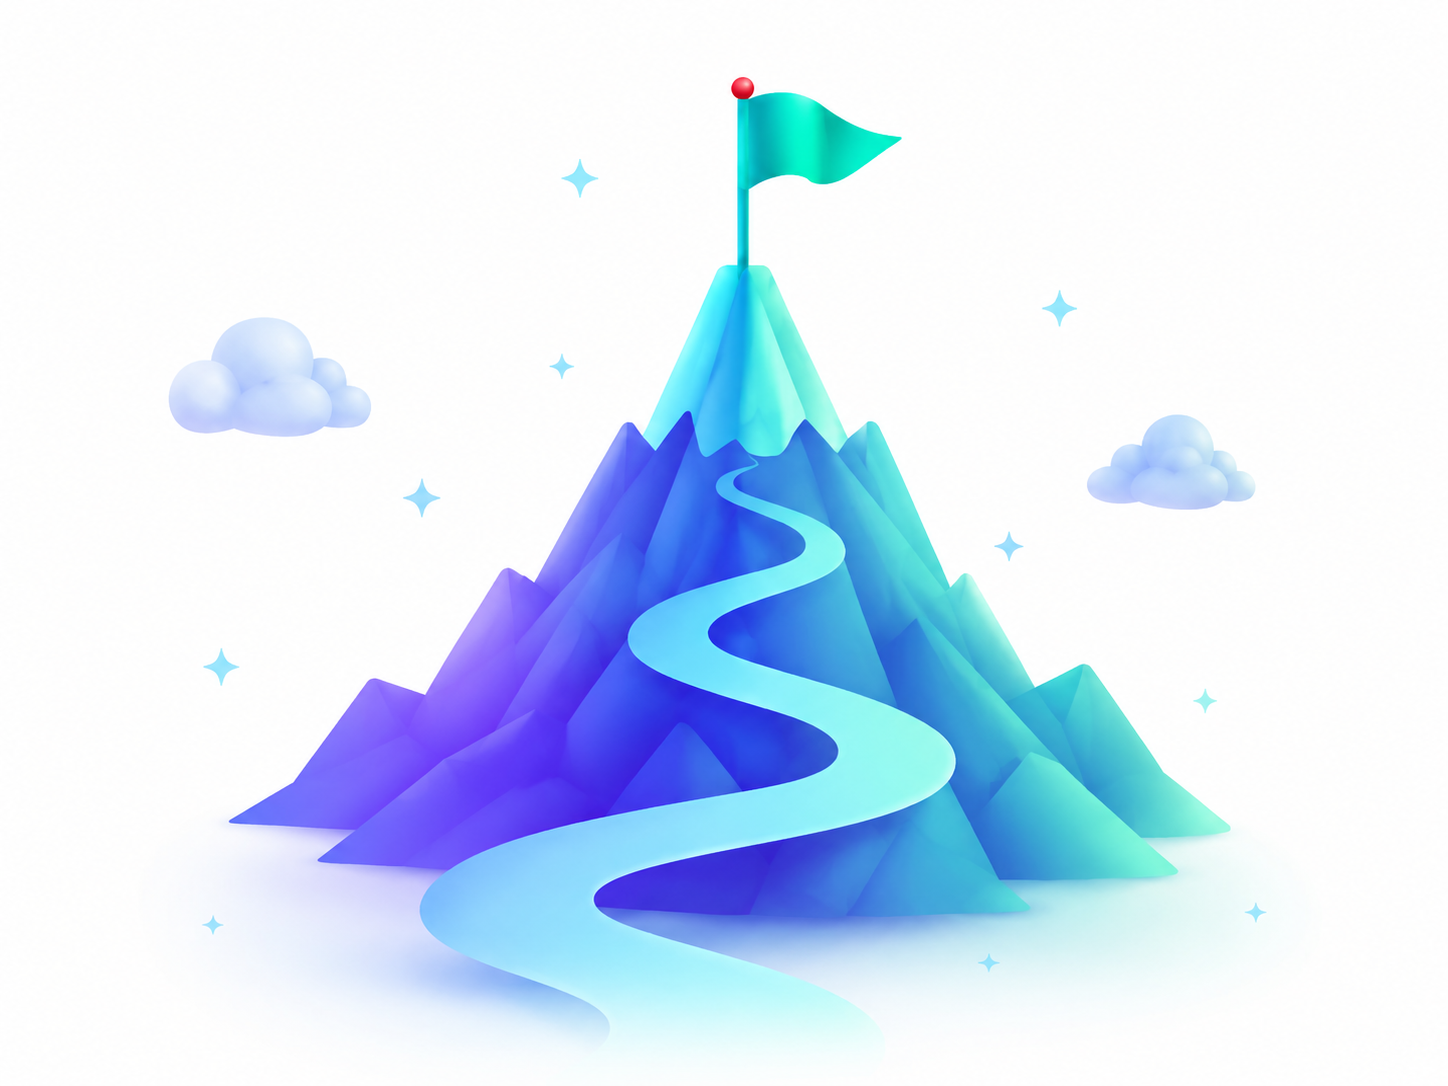
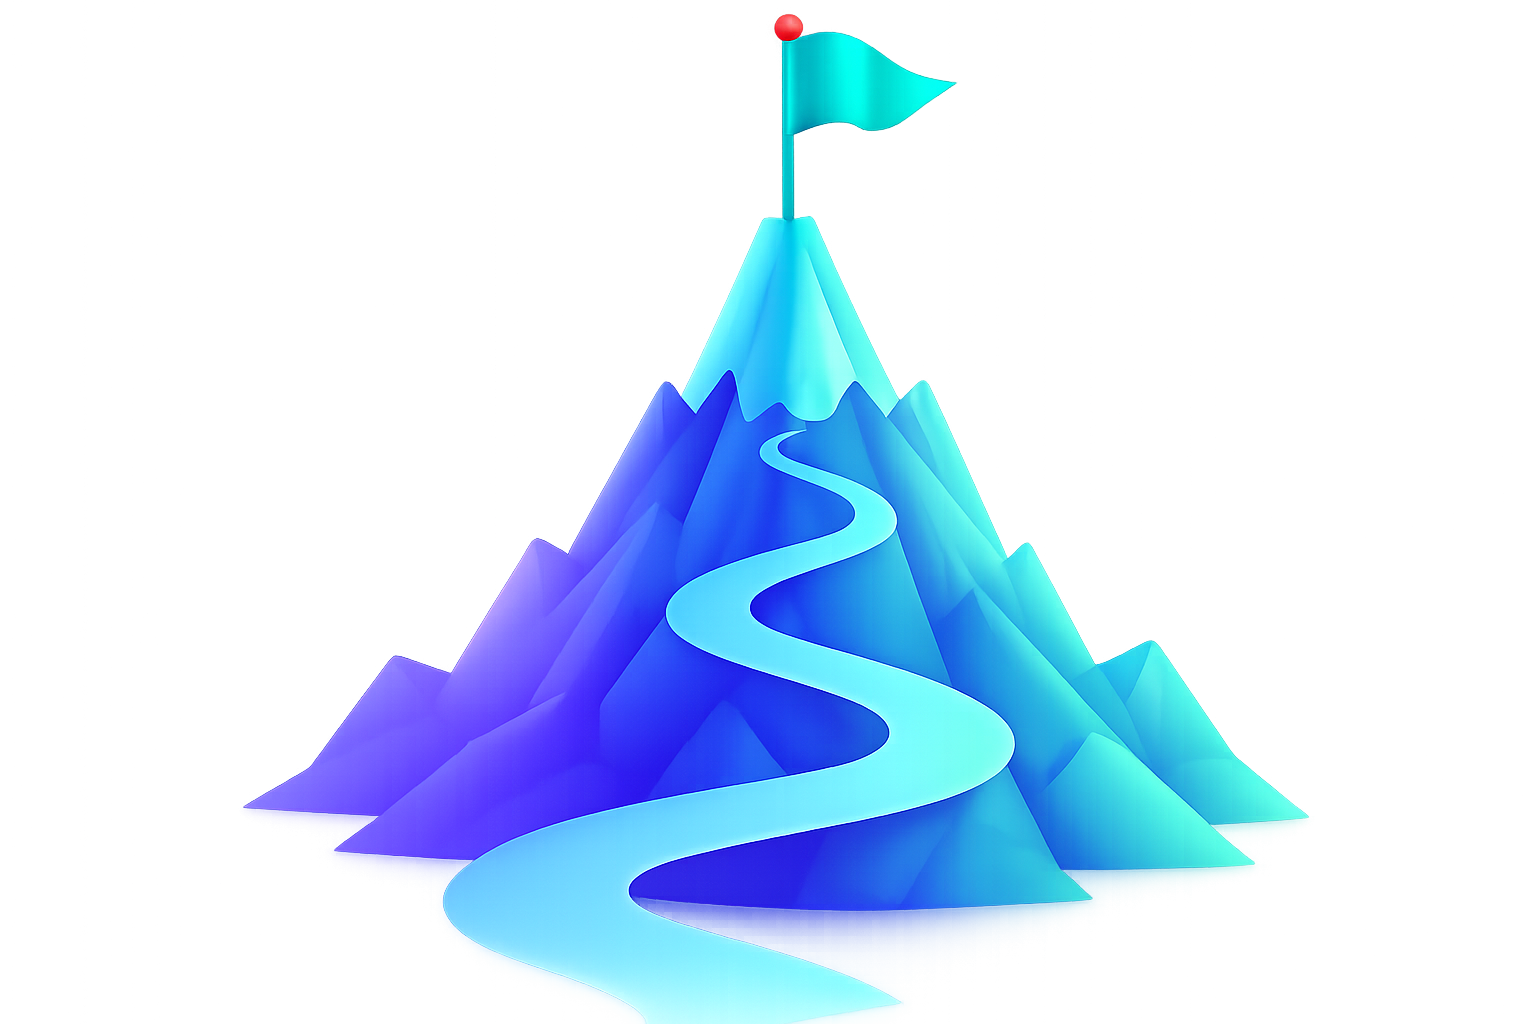
Replace trophy and mountain with new PNG images, fix blend modes
- New trophy.png: blue trophy on black bg → mix-blend-mode:screen removes bg
- New mountain.png: blue/cyan mountain on gray gradient bg → mix-blend-mode:screen
- Logo images use mix-blend-mode:multiply to preserve color on light background

diff --git a/dashboard.html b/dashboard.html
@@ -406,7 +406,7 @@
     <div style="margin-top:10px" class="muted" id="hintText"></div>
 
     <div class="sidebarMountain">
-      <img src="images/mountain.png" alt="" style="width:100%;max-width:220px;mix-blend-mode:multiply;">
+      <img src="images/mountain.png" alt="" style="width:100%;max-width:220px;mix-blend-mode:screen;">
     </div>
   </aside>
 
@@ -421,7 +421,7 @@
       </div>
 
       <div class="quick" style="display:flex;align-items:center;gap:12px;">
-        <img src="images/trophy.png" alt="Trophy" style="height:120px;width:auto;mix-blend-mode:multiply;filter:drop-shadow(0 4px 12px rgba(47,107,255,0.18));">
+        <img src="images/trophy.png" alt="Trophy" style="height:120px;width:auto;mix-blend-mode:screen;">
         <button class="qbtn secondary" id="openDashboardInfo">ℹ️ Info</button>
       </div>
     </section>

diff --git a/index.html b/index.html
@@ -184,7 +184,7 @@
 </div>
 
 <div class="mountain-area">
-  <img src="images/mountain.png" alt="" style="width:480px;max-width:90vw;mix-blend-mode:multiply;">
+  <img src="images/mountain.png" alt="" style="width:480px;max-width:90vw;mix-blend-mode:screen;">
 </div>
 
 <script>

diff --git a/login.html b/login.html
@@ -265,7 +265,7 @@
 </div>
 
 <div class="mountain-area">
-  <img src="images/mountain.png" alt="" style="width:440px;max-width:90vw;mix-blend-mode:multiply;">
+  <img src="images/mountain.png" alt="" style="width:440px;max-width:90vw;mix-blend-mode:screen;">
 </div>
 
 <script>

diff --git a/register.html b/register.html
@@ -249,7 +249,7 @@
 </div>
 
 <div class="mountain-area">
-  <img src="images/mountain.png" alt="" style="width:440px;max-width:90vw;mix-blend-mode:multiply;">
+  <img src="images/mountain.png" alt="" style="width:440px;max-width:90vw;mix-blend-mode:screen;">
 </div>
 
 <script>